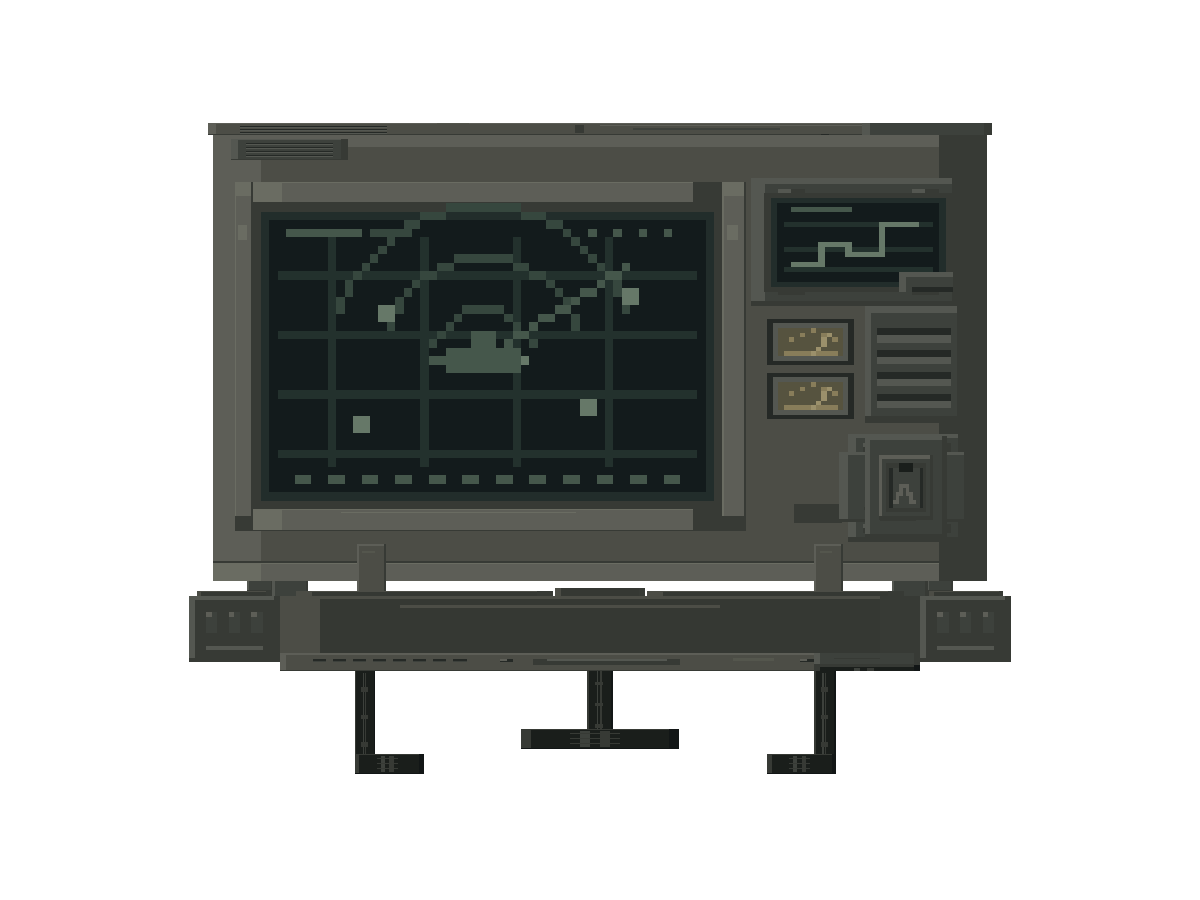
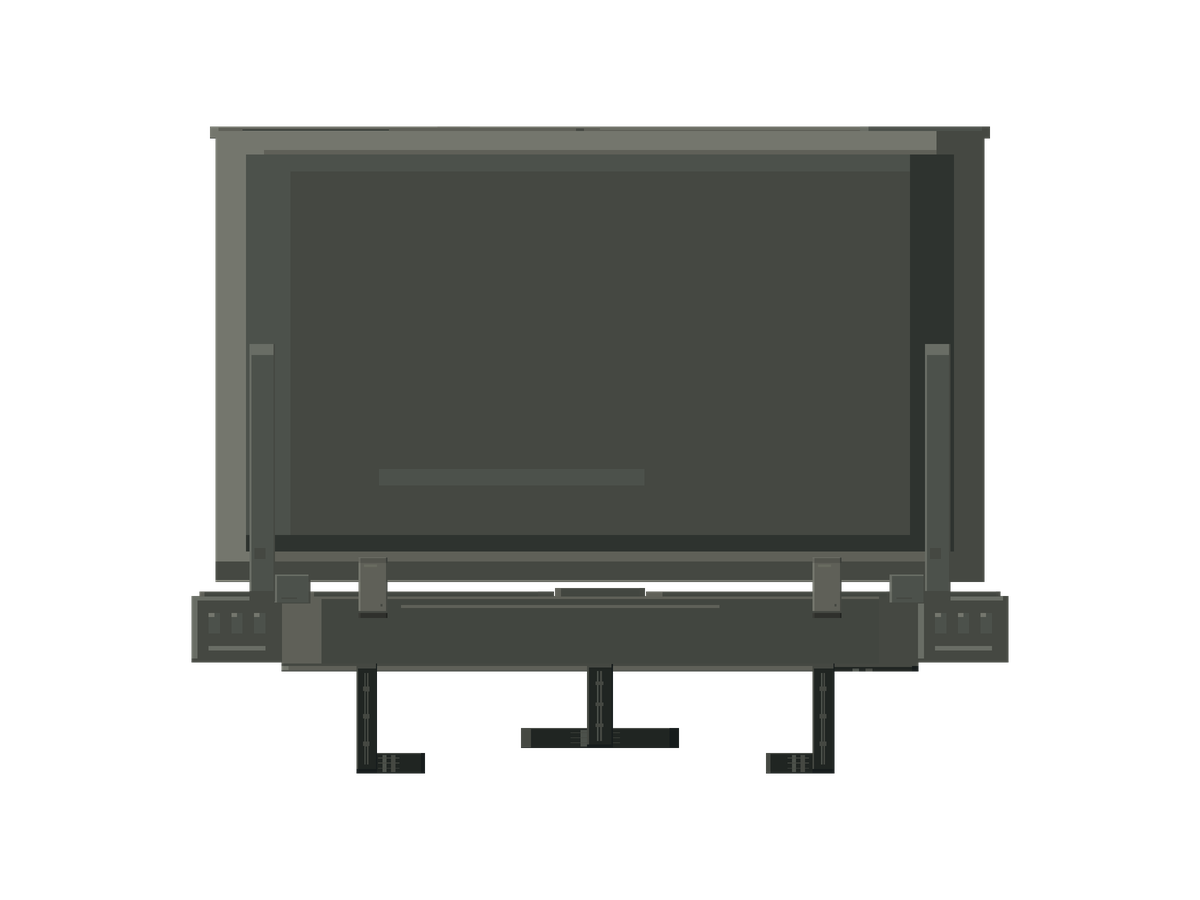
fix(art): 重制导航终端预览图对齐三格宽几何
- 四向 QA 预览（front/oblique/back/side，1200x900 透明底）按当前
  三格宽几何重新渲染，风格对齐原 Blockbench 出图
- README 移除"预览待重制"标注，记录渲染脚本位置

diff --git a/art/models/navigation_terminal_20261108/README.md b/art/models/navigation_terminal_20261108/README.md
@@ -2,7 +2,7 @@
 
 以《Barotrauma》原作 `navterminal` 为参考制作的 Minecraft 静态美术模型。保留低饱和灰绿旧金属外壳（主色接近 `#5F6058`）、深色功能部件、主声呐屏、右侧辅助显示与开关区、双仪表、宽键盘、侧控制台、线缆和安装支架；暖色仅用于少量仪表点缀，背面与厚度采用克制补全。
 
-> **2026-11-08 尺寸变更（终态：三格宽）**：整体等比放大至三格宽（X = 48.0 BB，相对原始版 ×2.102863），X 居中于 -24..24，Z 居中于 ±8.096，Y 贴地 0 → 38.001；几何、旋转轴心与可见框同步缩放，UV、128×128 贴图与全部细节未改动。期间检测到 bbmodel 曾被外部在 Z 向移动 -2.0（疑为 Blockbench 内查看时移动），已随本次「居中」要求修正回 Z=0，与 geo.json 完全对齐。存档链：原始 1.427 格宽 → `../_archive/navigation_terminal_x1_pre_scale_20261108/`；两格宽 → `../_archive/navigation_terminal_x2_pre_scale_20261108/`。下方「原作依据与尺寸换算」为原始版查证记录；`preview_*.png` 为旧版渲染，待重制。
+> **2026-11-08 尺寸变更（终态：三格宽）**：整体等比放大至三格宽（X = 48.0 BB，相对原始版 ×2.102863），X 居中于 -24..24，Z 居中于 ±8.096，Y 贴地 0 → 38.001；几何、旋转轴心与可见框同步缩放，UV、128×128 贴图与全部细节未改动。期间检测到 bbmodel 曾被外部在 Z 向移动 -2.0（疑为 Blockbench 内查看时移动），已随本次「居中」要求修正回 Z=0，与 geo.json 完全对齐。存档链：原始 1.427 格宽 → `../_archive/navigation_terminal_x1_pre_scale_20261108/`；两格宽 → `../_archive/navigation_terminal_x2_pre_scale_20261108/`。下方「原作依据与尺寸换算」为原始版查证记录。`preview_*.png` 已于 2026-11-09 按三格宽几何重制（Z-buffer 软件渲染，风格对齐原 Blockbench 出图：透明底、正面平光、侧面偏暗、fov 38° 斜视）；渲染脚本见 `../.work/render_nav_previews.py`。
 
 ## 交付文件
 
